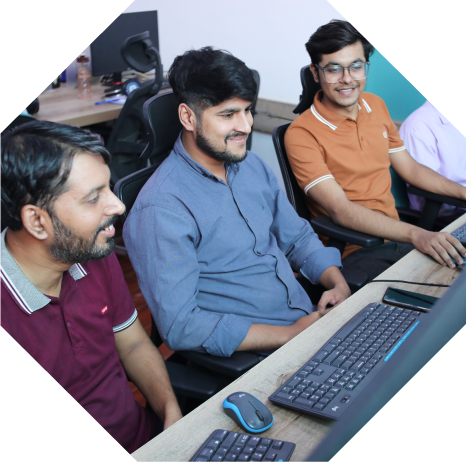
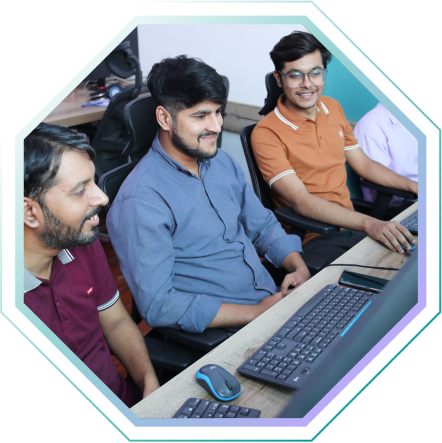
Updated Header & Images.

diff --git a/components/Layout/NavbarStyle2.js b/components/Layout/NavbarStyle2.js
@@ -41,11 +41,12 @@ const NavbarStyle2 = () => {
       <header className="header-area header-style-two">
         <div id="navbar" className="navbar-area">
           <nav className="navbar navbar-expand-md navbar-light">
-            <div className="container">
+            <div className="container-lg">
               <Link href="/">
                 <a
-                  className={`navbar-brand ${selectedNavItem === "Home" ? "active" : ""
-                    }`}
+                  className={`navbar-brand ${
+                    selectedNavItem === "Home" ? "active" : ""
+                  }`}
                   onClick={() => handleNavItemClick("Home")}
                 >
                   <img
@@ -72,7 +73,7 @@ const NavbarStyle2 = () => {
               </button>
 
               <div className={classOne} id="navbarSupportedContent">
-                <ul className="navbar-nav m-auto">
+                <ul className="navbar-nav ms-auto">
                   {/* <li className="nav-item">
                     <Link href="#">
                       <a className="dropdown-toggle nav-link">
@@ -173,8 +174,9 @@ const NavbarStyle2 = () => {
                   <li className="nav-item">
                     <Link href="/about-us" activeClassName="active">
                       <a
-                        className={`nav-link ${selectedNavItem === "what we do" ? "active" : ""
-                          }`}
+                        className={`nav-link ${
+                          selectedNavItem === "what we do" ? "active" : ""
+                        }`}
                         onClick={() => handleNavItemClick("what we do")}
                       >
                         What we do
@@ -185,8 +187,9 @@ const NavbarStyle2 = () => {
                   <li className="nav-item">
                     <Link href="/services" activeClassName="active">
                       <a
-                        className={`nav-link ${selectedNavItem === "How it works" ? "active" : ""
-                          }`}
+                        className={`nav-link ${
+                          selectedNavItem === "How it works" ? "active" : ""
+                        }`}
                         onClick={() => handleNavItemClick("How it works")}
                       >
                         How it works
@@ -197,8 +200,9 @@ const NavbarStyle2 = () => {
                   <li className="nav-item">
                     <Link href="/coming-soon" activeClassName="active">
                       <a
-                        className={`nav-link ${selectedNavItem === "Blog" ? "active" : ""
-                          }`}
+                        className={`nav-link ${
+                          selectedNavItem === "Blog" ? "active" : ""
+                        }`}
                         onClick={() => handleNavItemClick("Blog")}
                       >
                         Blog
@@ -209,21 +213,26 @@ const NavbarStyle2 = () => {
                   <li className="nav-item">
                     <Link href="/coming-soon" activeClassName="active">
                       <a
-                        className={`nav-link ${selectedNavItem === "Career" ? "active" : ""
-                          }`}
+                        className={`nav-link ${
+                          selectedNavItem === "Career" ? "active" : ""
+                        }`}
                         onClick={() => handleNavItemClick("Career")}
                       >
                         Career
                       </a>
                     </Link>
                   </li>
-                  <li className="nabar-buttons">
-                    <Link href="/contact" activeClassName="active">
+                  <li className="nav-item">
+                    <Link
+                      href="https://form.jotform.com/232274579439468 "
+                      activeClassName="active"
+                    >
                       <a
-                        className={`default-btn style-two ${selectedNavItem === "Apply as a Developer"
-                          ? "active"
-                          : ""
-                          }`}
+                        className={`nav-link ${
+                          selectedNavItem === "Apply as a Developer"
+                            ? "active"
+                            : ""
+                        }`}
                         onClick={() =>
                           handleNavItemClick("Apply as a Developer")
                         }
@@ -232,11 +241,33 @@ const NavbarStyle2 = () => {
                       </a>
                     </Link>
                   </li>
-                  <li className="nabar-buttons">
+
+                  {/* <li className="nabar-buttons">
                     <Link href="/contact" activeClassName="active">
                       <a
-                        className={`default-btn style-two ${selectedNavItem === "Hire a Talent" ? "active" : ""
-                          }`}
+                        className={`default-btn style-two ${
+                          selectedNavItem === "Apply as a Developer"
+                            ? "active"
+                            : ""
+                        }`}
+                        onClick={() =>
+                          handleNavItemClick("Apply as a Developer")
+                        }
+                      >
+                        Apply as a Developer
+                      </a>
+                    </Link>
+                  </li> */}
+                  <li className="nabar-buttons">
+                    <Link
+                      href="https://calendly.com/esparktalent/espark-talent"
+                      activeClassName="active"
+                      className="others-option"
+                    >
+                      <a
+                        className={`default-btn style-two ${
+                          selectedNavItem === "Hire a Talent" ? "active" : ""
+                        }`}
                         onClick={() => handleNavItemClick("Hire a Talent")}
                       >
                         Hire a Talent
@@ -249,9 +280,9 @@ const NavbarStyle2 = () => {
               {/* <span className="ri-edit-2-line"></span> */}
               {/* <span className="ri-edit-2-line"></span> */}
               <div className="others-option">
-                <Link href="https://form.jotform.com/232274579439468 ">
+                {/* <Link href="https://form.jotform.com/232274579439468 ">
                   <a className="default-btn style-two">Apply as a Developer</a>
-                </Link>
+                </Link> */}
                 <Link href="https://calendly.com/esparktalent/espark-talent">
                   <a className="default-btn style-two">Hire a Talent</a>
                 </Link>

diff --git a/constants/constants.js b/constants/constants.js
@@ -1141,25 +1141,25 @@ export const processOfHowItWorks = [
     heading: "Recruit",
     content:
       "Exploration of the candidate is the first step in our recruitment process. Picking up outsourced talents is the day-to-day practice of our expert recruiters.",
-    imageLink: "/images/cybersecurity-services/services/Recruit.png",
+    imageLink: "/images/cybersecurity-services/services/recruit-1.png",
   },
   {
     heading: "Shortlist",
     content:
       "Selecting the top candidates comes under the prime expertise of our clever hiring team. They know how to test the talent and pick the foremost candidates.",
-    imageLink: "/images/cybersecurity-services/services/Shortlist.png",
+    imageLink: "/images/cybersecurity-services/services/shortlist-1.png",
   },
   {
     heading: "Hire",
     content:
       "Hiring is the final step in the process of selecting the worthy talent that is decided after proper discussion with our specialist.",
-    imageLink: "/images/cybersecurity-services/services/Hire.png",
+    imageLink: "/images/cybersecurity-services/services/hire-1.png",
   },
   {
     heading: "Train",
     content:
       "Training is our extended and updated service that helps the top-picked talent to utilize their earned skills and get ready to work for our outsourced clients.",
-    imageLink: "/images/cybersecurity-services/services/Train.png",
+    imageLink: "/images/cybersecurity-services/services/train-1.png",
   },
 ];
 
@@ -1263,48 +1263,56 @@ export const ContactInfoData = [
 export const footerContact = [
   {
     id: 1,
-    item: "info@esparktalent.com"
+    item: "info@esparktalent.com",
   },
   {
     id: 2,
-    item: "hr@esparktalent.com"
+    item: "hr@esparktalent.com",
   },
   {
     id: 3,
-    item: "support@esparktalent.com"
-  }
-]
+    item: "support@esparktalent.com",
+  },
+];
 
-export const FaqTitle = 'Check out our common questions'
+export const FaqTitle = "Check out our common questions";
 
-export const FaqData = [{
-  heading: "How can I hire outsourced professionals instantly ?",
-  paragraph: ""
-}, {
-  heading: "How many days does it take to onboard an outsourced professional?How can I hire outsourced professionals instantly ?",
-  paragraph: ""
-}, {
-  heading: "Is there any management fee before hiring the talent?",
-  paragraph: ""
-}, {
-  heading: "What is the employer cost at eSpark Talent?",
-  paragraph: ""
-},
-{
-  heading: "Can we pay in dollars to hire outsourced employees",
-  paragraph: ""
-}, {
-  heading: "Are there any charges for outsourced employees at eSpark Talent?",
-  paragraph: ""
-}
-  , {
-  heading: "Does eSpark Talent offer benefits for hired employees?",
-  paragraph: ""
-},
-{
-  heading: "Can we hire employees for one day? Need to be confirmed?",
-  paragraph: ""
-}, {
-  heading: "How many hours do employees work at eSpark Talent?",
-  paragraph: ""
-}]
+export const FaqData = [
+  {
+    heading: "How can I hire outsourced professionals instantly ?",
+    paragraph: "",
+  },
+  {
+    heading:
+      "How many days does it take to onboard an outsourced professional?How can I hire outsourced professionals instantly ?",
+    paragraph: "",
+  },
+  {
+    heading: "Is there any management fee before hiring the talent?",
+    paragraph: "",
+  },
+  {
+    heading: "What is the employer cost at eSpark Talent?",
+    paragraph: "",
+  },
+  {
+    heading: "Can we pay in dollars to hire outsourced employees",
+    paragraph: "",
+  },
+  {
+    heading: "Are there any charges for outsourced employees at eSpark Talent?",
+    paragraph: "",
+  },
+  {
+    heading: "Does eSpark Talent offer benefits for hired employees?",
+    paragraph: "",
+  },
+  {
+    heading: "Can we hire employees for one day? Need to be confirmed?",
+    paragraph: "",
+  },
+  {
+    heading: "How many hours do employees work at eSpark Talent?",
+    paragraph: "",
+  },
+];

diff --git a/styles/globals.css b/styles/globals.css
@@ -273,6 +273,7 @@ textarea.form-control {
   color: var(--whiteColor);
   padding-left: 30px;
   padding-right: 50px;
+  margin: 0px;
 }
 
 .default-btn.style-two::before {
@@ -562,9 +563,16 @@ Header Area CSS
   padding: 0;
 }
 
+/* .navbar-area .navbar ul {
+  padding-left: 0;
+  margin-bottom: 0;
+  list-style-type: none;
+} */
+
 .navbar-area .navbar ul {
   padding-left: 0;
   margin-bottom: 0;
+  padding-right: 20px;
   list-style-type: none;
 }
 
@@ -963,29 +971,33 @@ Header Area CSS
 } */
 /* Change To Below */
 .navbar-area .navbar .others-option .default-btn {
-  color: var(--whiteColor);
-  background-color: var(--mainColor);
+  color: var(--mainColor);
+  /* background-color: var(--mainColor); */
+  background-color: transparent;
   font-weight: normal;
-  border: 1px solid rgba(220, 132, 252, 0.4) !important;
-  /* padding-top: 11px; */
-  padding-left: 50px;
-  /* padding-right: 35px; */
-  /* padding-bottom: 11px; */
-  width: 247px;
+  border: 1px solid var(--mainColor) !important;
+  padding-top: 7px;
+  padding-left: 16px;
+  padding-right: 16px;
+  padding-bottom: 7px;
+  /* width: 247px; */
 }
 
 .navbar-area .navbar .others-option .default-btn span {
   left: 25px;
   right: auto;
   font-size: 20px;
-  color: #dc84fc;
+  /* color: #dc84fc; */
   margin-top: -1px;
+}
+.navbar-area .navbar .others-option .default-btn::before {
+  display: none !important;
 }
 
 .navbar-area .navbar .others-option .default-btn:hover {
-  background-color: var(--blackColor);
-  border-color: var(--blackColor);
-  color: var(--whiteColor);
+  background-color: var(--mainColor) !important;
+  border-color: var(--mainColor) !important;
+  color: var(--whiteColor) !important;
   opacity: 1;
 }
 
@@ -1408,7 +1420,7 @@ About Area CSS
 
 .shape6 {
   position: absolute;
-  z-index: -1;
+  z-index: 1;
   bottom: 15%;
   left: 8%;
 }

diff --git a/components/BusinessConsulting/AboutUs.js b/components/BusinessConsulting/AboutUs.js
@@ -15,7 +15,12 @@ const AboutUs = (props) => {
                 data-aos-duration="1000"
                 data-aos-once="true"
               >
-                <img src="/images/01.png" alt="image" />
+                <img
+                  src="/images/01.png"
+                  alt="image"
+                  width={"75%"}
+                  height={"100%"}
+                />
                 <div className="shape5">
                   <img src="/images/shape/shape5.png" alt="image" />
                 </div>
@@ -82,7 +87,7 @@ const AboutUs = (props) => {
           </div>
         </div>
         <div className="shape6">
-          <img src="/images/shape/shape6.png" alt="image" />
+          <img src="/images/shape/shape6.png" alt="image" width={"90%"} />
         </div>
       </div>
     </>

diff --git a/styles/responsive.css b/styles/responsive.css
@@ -1667,6 +1667,9 @@
 
   .nabar-buttons {
     display: flex;
+    margin-top: 6px;
+    margin-bottom: 4px;
+    margin-left: 0px !important;
   }
 
   .others-option {
@@ -2848,7 +2851,7 @@
     .default-btn {
     padding-left: 10px;
     padding-right: 10px;
-    font-size: 12px;
+    font-size: 15px;
     margin-left: 10px;
     width: 130px;
   }
